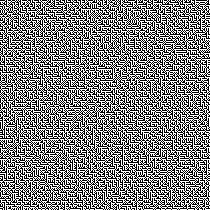
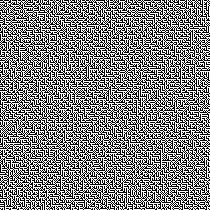
FIX: fixed bug at main.go

diff --git a/main.go b/main.go
@@ -57,15 +57,26 @@ func setShare(img *image.Gray , transparent []int , x, y int) {
 	}
 
 }
+
+func isBlack(color color.Color) bool { 
+	r , g , b ,a := color.RGBA() 
+	if (r == 255) && (g == 255) && 
+		(b == 255) && (a>>8 == 255) { 
+		return true }
+	return false 
+} 
+
 func setPixels(img1 , img2 *image.Gray, x , y int , color color.Color) { 
 
 	id := rand.Intn(len(shares)) 
-	if r ,_ ,_,_ := color.RGBA() ; r <= 200 { 
-		setShare(img1 , shares[id] , x , y)	
-		setShare(img2 , getComplement(shares[id]) , x , y)		
+	shareAndComplemet := [][]int{shares[id] , getComplement(shares[id])} 
+	z := rand.Intn(1) 
+	setShare(img1 , shareAndComplemet[z]  , x , y)	
+
+	if isBlack(color) { 
+		setShare(img2 , shareAndComplemet[1-z] , x , y)		
 	} else { 
-		setShare(img1 , shares[id] , x , y)	
-		setShare(img2 , shares[id] , x , y)		
+		setShare(img2 , shareAndComplemet[z]  , x , y)	
 	}
 		
 	
